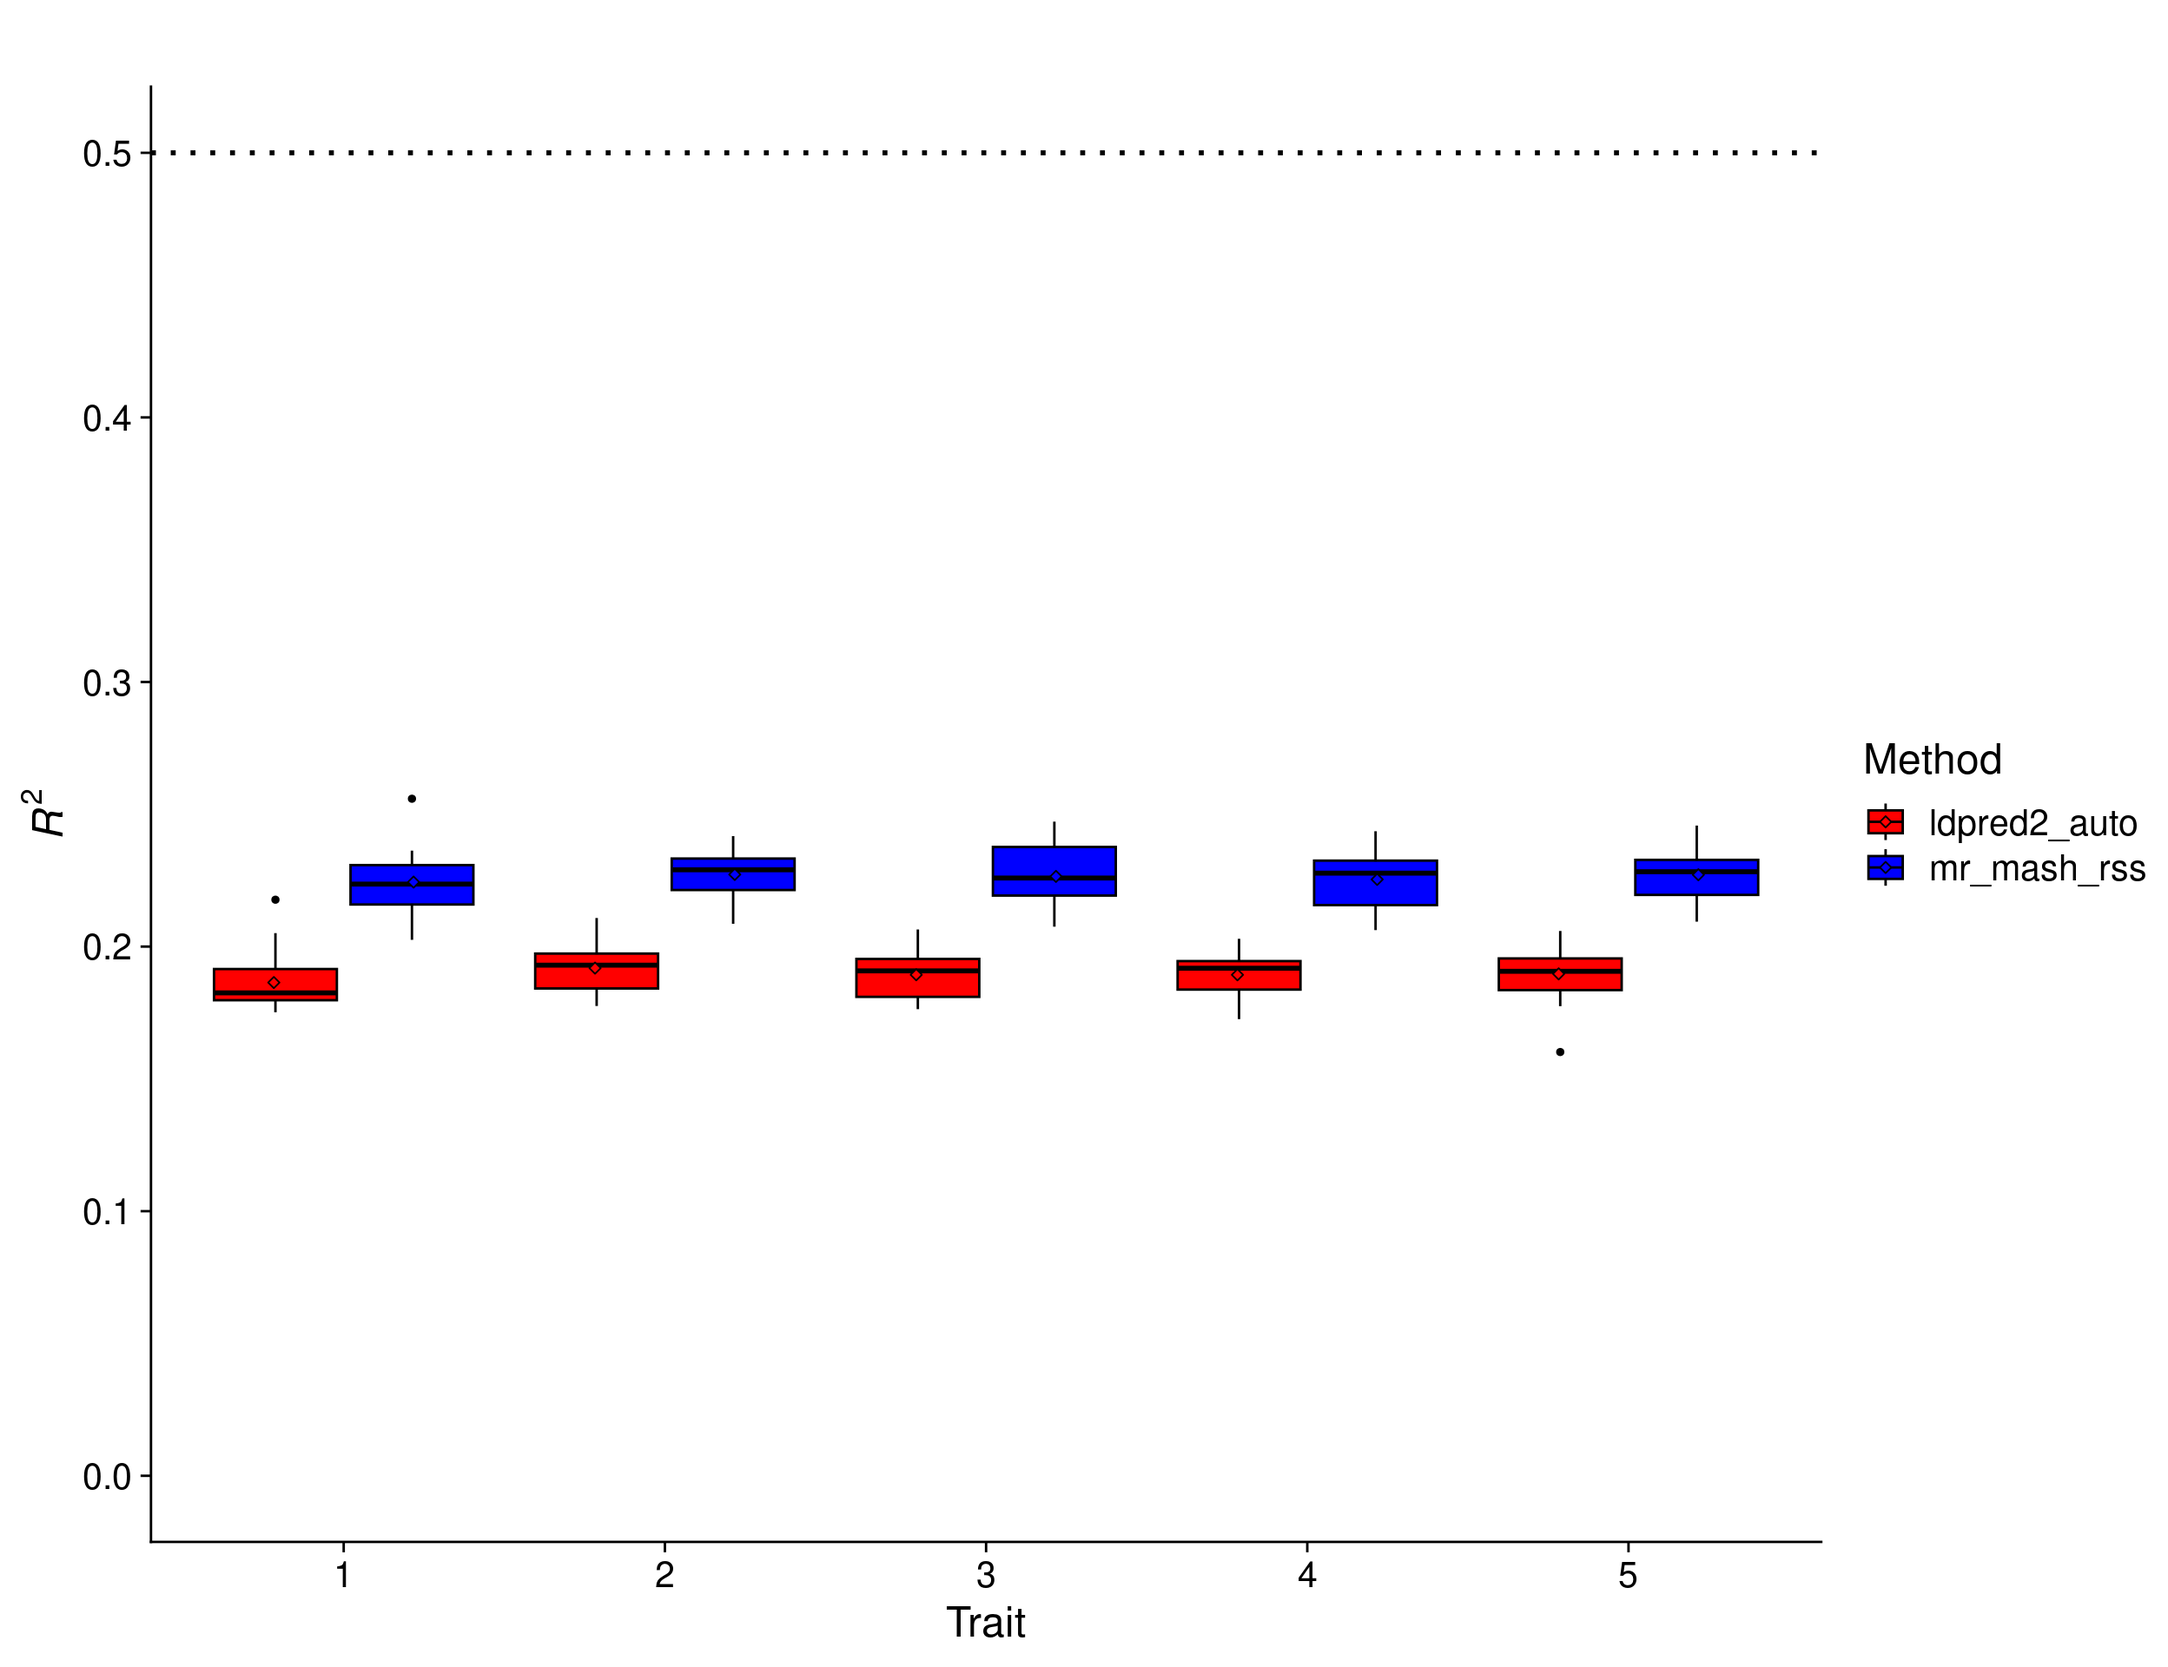
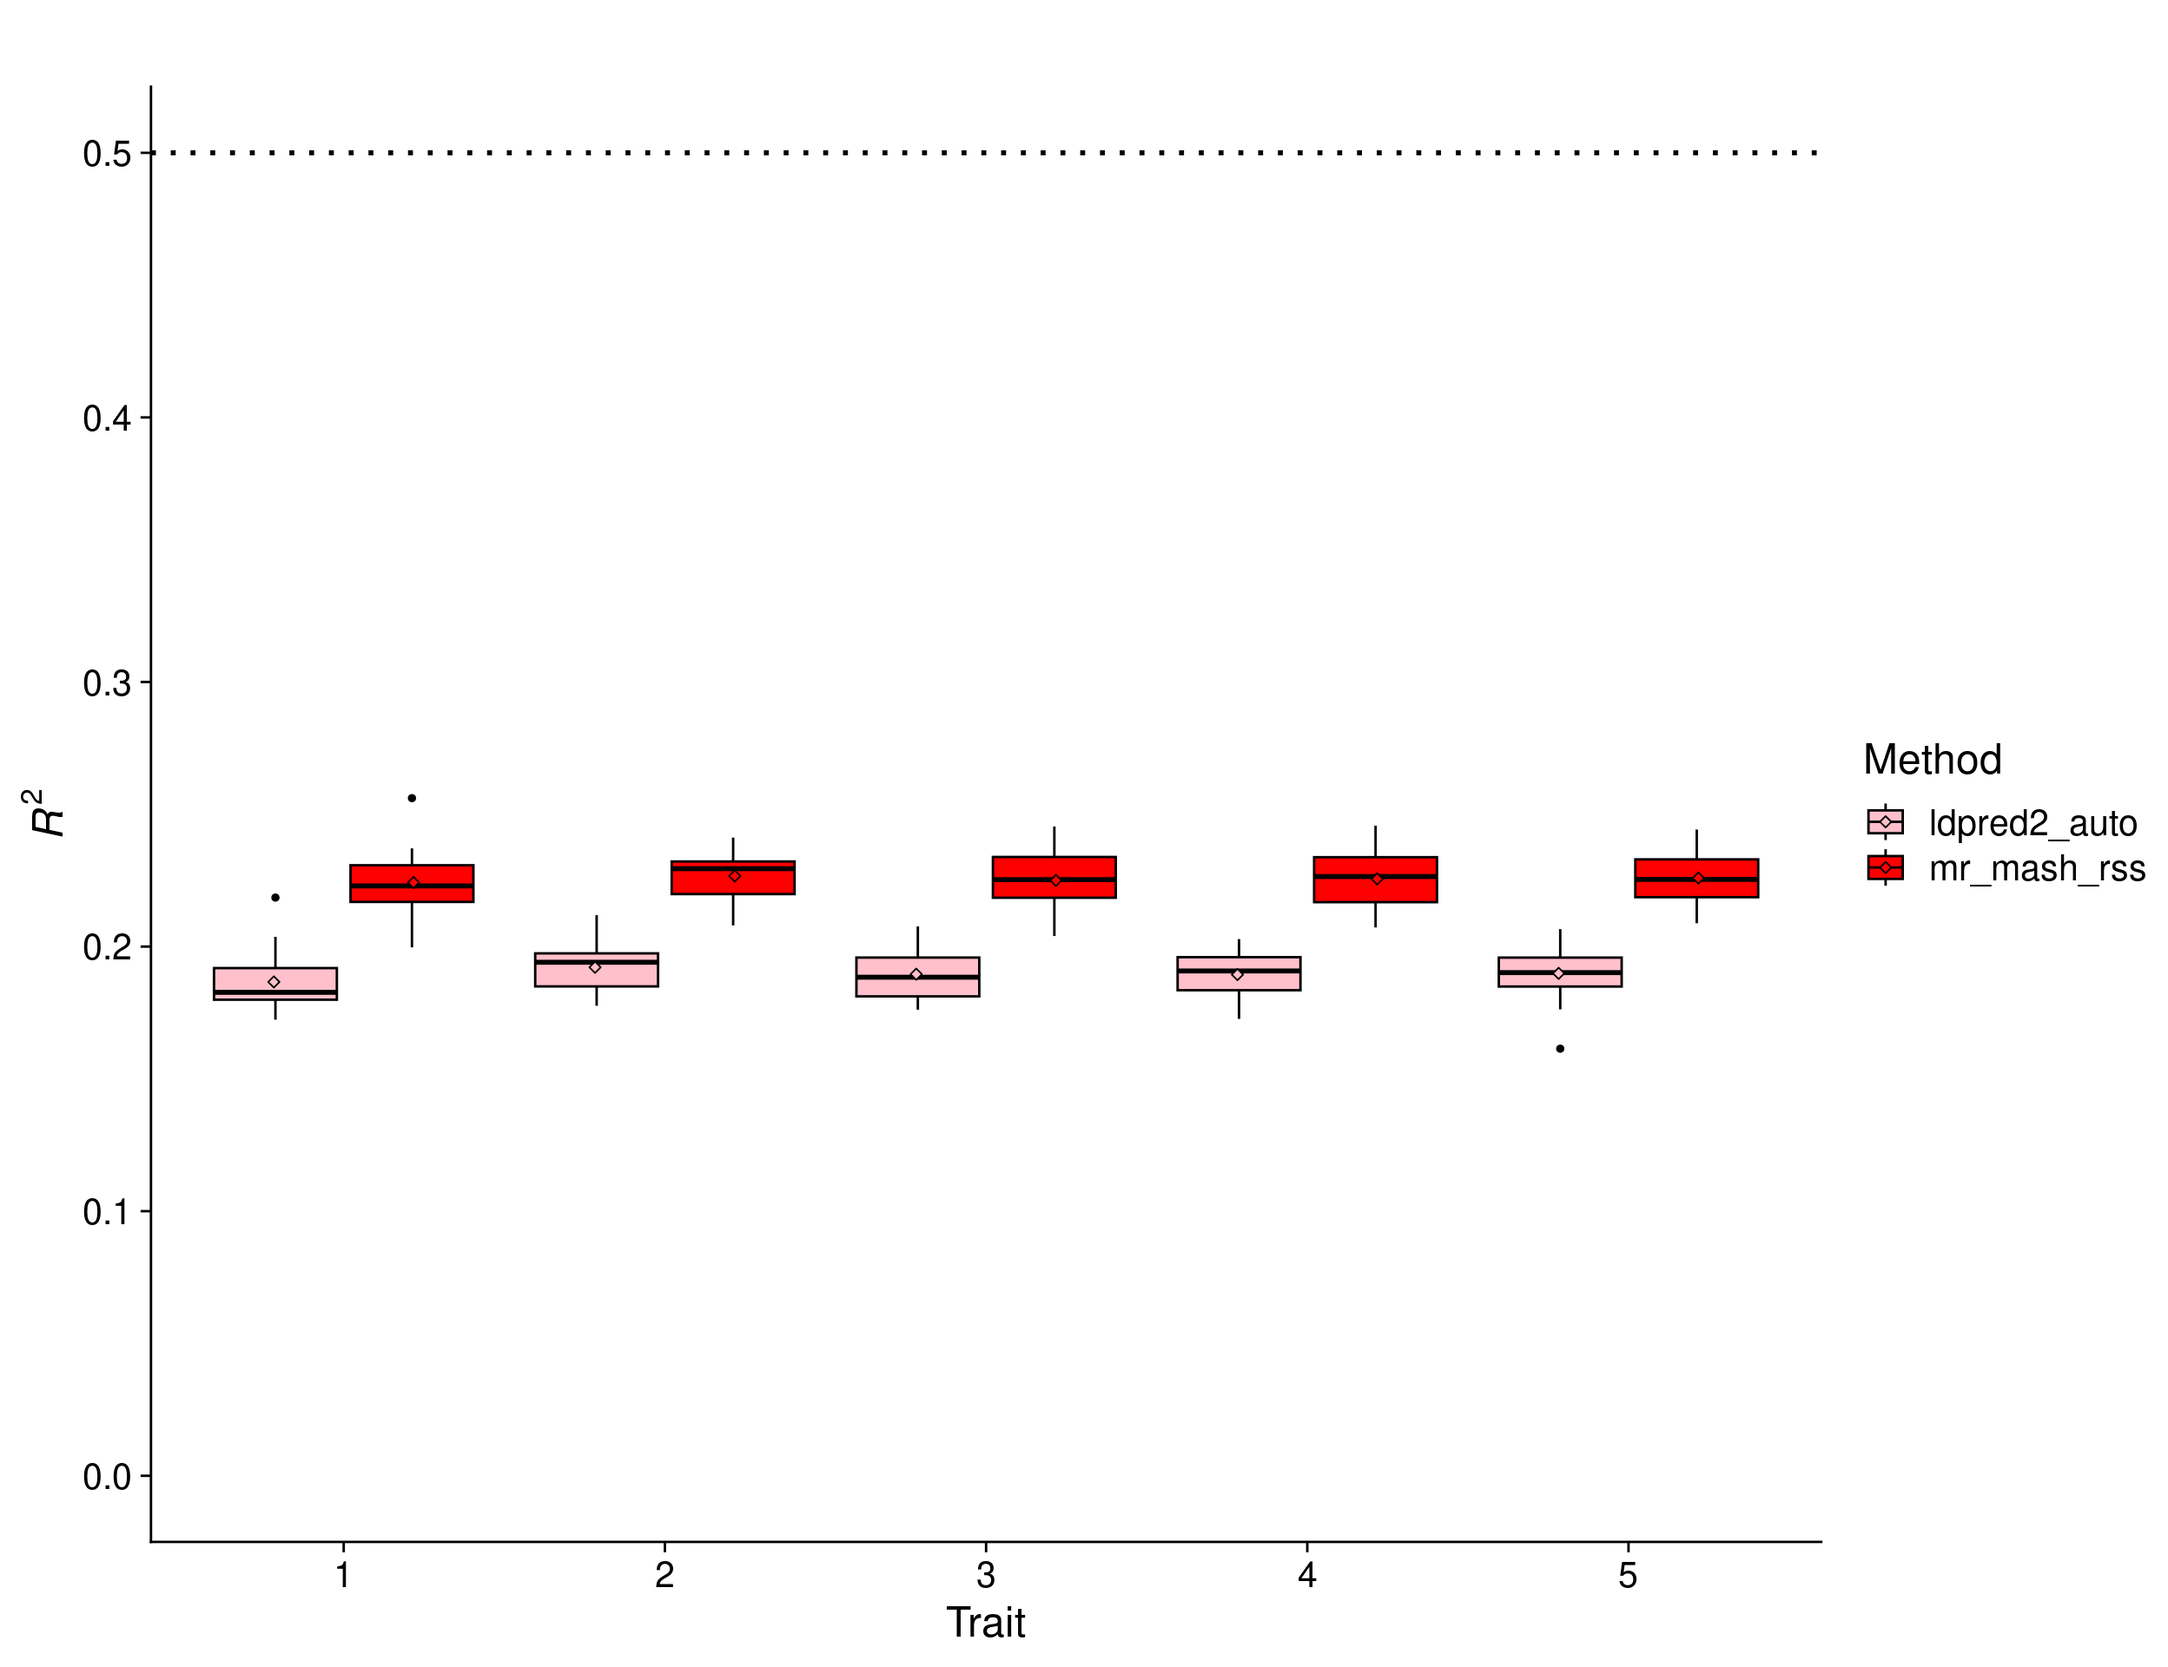
Build site.

diff --git a/docs/ukb_sim_results.html b/docs/ukb_sim_results.html
@@ -11,7 +11,7 @@
 
 <meta name="author" content="Fabio Morgante &amp; Deborah Kunkel" />
 
-<meta name="date" content="2023-10-30" />
+<meta name="date" content="2023-11-02" />
 
 <title>Simulations with UK Biobank genotypes and different effect structure across traits</title>
 
@@ -374,7 +374,7 @@ div.tocify {
 <h1 class="title toc-ignore">Simulations with UK Biobank genotypes and
 different effect structure across traits</h1>
 <h4 class="author">Fabio Morgante &amp; Deborah Kunkel</h4>
-<h4 class="date">October 30, 2023</h4>
+<h4 class="date">November 02, 2023</h4>
 
 </div>
 
@@ -403,7 +403,7 @@ class="glyphicon glyphicon-ok text-success" aria-hidden="true"></span>
 <div class="tab-content">
 <div id="summary" class="tab-pane fade in active">
 <p>
-<strong>Last updated:</strong> 2023-10-30
+<strong>Last updated:</strong> 2023-11-02
 </p>
 <p>
 <strong>Checks:</strong> <span
@@ -534,15 +534,15 @@ project makes it easier to run your code on other machines.</p>
 <div class="panel panel-default">
 <div class="panel-heading">
 <p class="panel-title">
-<a data-toggle="collapse" data-parent="#workflowr-checks" href="#strongRepositoryversionstrongahrefhttpsgithubcommorgantelabmrmashrssanalysistree359ac999fcd3a8c55a277b0ad0c7e4474fb81e78targetblank359ac99a">
+<a data-toggle="collapse" data-parent="#workflowr-checks" href="#strongRepositoryversionstrongahrefhttpsgithubcommorgantelabmrmashrssanalysistree61b27b107ed8cf53e91dcadd435f31d4926c826ctargetblank61b27b1a">
 <span class="glyphicon glyphicon-ok text-success"
 aria-hidden="true"></span> <strong>Repository version:</strong>
-<a href="https://github.com/morgantelab/mr_mash_rss_analysis/tree/359ac999fcd3a8c55a277b0ad0c7e4474fb81e78" target="_blank">359ac99</a>
+<a href="https://github.com/morgantelab/mr_mash_rss_analysis/tree/61b27b107ed8cf53e91dcadd435f31d4926c826c" target="_blank">61b27b1</a>
 </a>
 </p>
 </div>
 <div
[2 lines of base64/hex data omitted]
 class="panel-collapse collapse">
 <div class="panel-body">
 <p>
@@ -552,7 +552,7 @@ reproducibility.
 </p>
 <p>
 The results in this page were generated with repository version
-<a href="https://github.com/morgantelab/mr_mash_rss_analysis/tree/359ac999fcd3a8c55a277b0ad0c7e4474fb81e78" target="_blank">359ac99</a>.
+<a href="https://github.com/morgantelab/mr_mash_rss_analysis/tree/61b27b107ed8cf53e91dcadd435f31d4926c826c" target="_blank">61b27b1</a>.
 See the <em>Past versions</em> tab to see a history of the changes made
 to the R Markdown and HTML files.
 </p>
@@ -585,16 +585,14 @@ Untracked files:
     Untracked:  scripts/11_run_fit_mrmashrss_sparse_LD_mvsusie_paper_prior_by_chr_bc_ukb.sbatch
     Untracked:  scripts/11_run_fit_mrmashrss_test_by_chr_V_all_chr_bc_ukb.sbatch
     Untracked:  scripts/12_run_compute_pred_accuracy_mrmashrss_sparse_LD_mvsusie_paper_prior_bc_ukb.sbatch
+    Untracked:  scripts/12_run_fit_mrmashrss_sparse_LD_V_all_chr_init_by_chr_bc_ukb.sbatch
     Untracked:  scripts/3_run_compute_sumstats_by_chr_and_fold_test_bc_ukb.sbatch
     Untracked:  scripts/run_adjust_LD_test.sbatch
     Untracked:  scripts/run_fit_kriging_rss_by_chr_and_trait_bc_ukb.sbatch
 
 Unstaged changes:
-    Modified:   code/compute_phenotypic_cov_ukb_sim.R
-    Modified:   code/compute_prediction_accuracy_ukb.R
-    Modified:   code/compute_sumstats_ukb.R
-    Modified:   code/sim_pheno_ukb.R
-    Modified:   ukb_sim_snakefile
+    Modified:   analysis/ukb_bc_results.Rmd
+    Modified:   code/compute_prediction_accuracy_bc_ukb.R
     Modified:   ukb_sim_snakemake_submitter.sh
 
 </code></pre>
@@ -641,6 +639,40 @@ Message
 </tr>
 </thead>
 <tbody>
+<tr>
+<td>
+Rmd
+</td>
+<td>
+<a href="https://github.com/morgantelab/mr_mash_rss_analysis/blob/61b27b107ed8cf53e91dcadd435f31d4926c826c/analysis/ukb_sim_results.Rmd" target="_blank">61b27b1</a>
+</td>
+<td>
+fmorgante
+</td>
+<td>
+2023-11-02
+</td>
+<td>
+Update results
+</td>
+</tr>
+<tr>
+<td>
+html
+</td>
+<td>
+<a href="https://rawcdn.githack.com/morgantelab/mr_mash_rss_analysis/d850539d7dd55aa0b81c7e271d5b1842e50f2f2c/docs/ukb_sim_results.html" target="_blank">d850539</a>
+</td>
+<td>
+fmorgante
+</td>
+<td>
+2023-10-30
+</td>
+<td>
+Build site.
+</td>
+</tr>
 <tr>
 <td>
 html
@@ -1688,6 +1720,17 @@ Date
 <tbody>
 <tr>
 <td>
+<a href="https://github.com/morgantelab/mr_mash_rss_analysis/blob/d850539d7dd55aa0b81c7e271d5b1842e50f2f2c/docs/figure/ukb_sim_results.Rmd/equal effects-1.png" target="_blank">d850539</a>
+</td>
+<td>
+fmorgante
+</td>
+<td>
+2023-10-30
+</td>
+</tr>
+<tr>
+<td>
 <a href="https://github.com/morgantelab/mr_mash_rss_analysis/blob/eb09d7b6a343348e9037e0e65262f3b1c8320cbb/docs/figure/ukb_sim_results.Rmd/equal effects-1.png" target="_blank">eb09d7b</a>
 </td>
 <td>
@@ -1837,6 +1880,17 @@ Date
 </tr>
 </thead>
 <tbody>
+<tr>
+<td>
+<a href="https://github.com/morgantelab/mr_mash_rss_analysis/blob/d850539d7dd55aa0b81c7e271d5b1842e50f2f2c/docs/figure/ukb_sim_results.Rmd/mostly null-1.png" target="_blank">d850539</a>
+</td>
+<td>
+fmorgante
+</td>
+<td>
+2023-10-30
+</td>
+</tr>
 <tr>
 <td>
 <a href="https://github.com/morgantelab/mr_mash_rss_analysis/blob/c77ab8f96831d751273d44f0e2d00883f6185106/docs/figure/ukb_sim_results.Rmd/mostly null-1.png" target="_blank">c77ab8f</a>
@@ -1997,6 +2051,17 @@ Date
 </tr>
 </thead>
 <tbody>
+<tr>
+<td>
+<a href="https://github.com/morgantelab/mr_mash_rss_analysis/blob/d850539d7dd55aa0b81c7e271d5b1842e50f2f2c/docs/figure/ukb_sim_results.Rmd/shared in subgroups-1.png" target="_blank">d850539</a>
+</td>
+<td>
+fmorgante
+</td>
+<td>
+2023-10-30
+</td>
+</tr>
 <tr>
 <td>
 <a href="https://github.com/morgantelab/mr_mash_rss_analysis/blob/e0b7f14c1dba635136ac5c40304c624e87f57a11/docs/figure/ukb_sim_results.Rmd/shared in subgroups-1.png" target="_blank">e0b7f14</a>
@@ -2278,7 +2343,7 @@ p_methods_shared_lowpve &lt;- ggplot(res, aes(x = trait, y = score, fill = metho
                position = position_dodge2(width = 0.87,   
                                           preserve = &quot;single&quot;)) +
   ylim(0, 0.5) +
-  scale_fill_manual(values = c(&quot;red&quot;, &quot;blue&quot;)) +
+  scale_fill_manual(values = c(&quot;pink&quot;, &quot;red&quot;, &quot;blue&quot;)) +
   labs(x = &quot;Trait&quot;, y = expression(italic(R)^2), fill=&quot;Method&quot;, title=&quot;&quot;) +
   geom_hline(yintercept=0.5, linetype=&quot;dotted&quot;, linewidth=1, color = &quot;black&quot;) +
   theme_cowplot(font_size = 18)
@@ -2419,6 +2484,17 @@ Date
 </tr>
 </thead>
 <tbody>
+<tr>
+<td>
+<a href="https://github.com/morgantelab/mr_mash_rss_analysis/blob/d850539d7dd55aa0b81c7e271d5b1842e50f2f2c/docs/figure/ukb_sim_results.Rmd/equal effects 10 traits-1.png" target="_blank">d850539</a>
+</td>
+<td>
+fmorgante
+</td>
+<td>
+2023-10-30
+</td>
+</tr>
 <tr>
 <td>
 <a href="https://github.com/morgantelab/mr_mash_rss_analysis/blob/7cd0ded97c2d6b525cb49fbf68f79009168e4290/docs/figure/ukb_sim_results.Rmd/equal effects 10 traits-1.png" target="_blank">7cd0ded</a>
